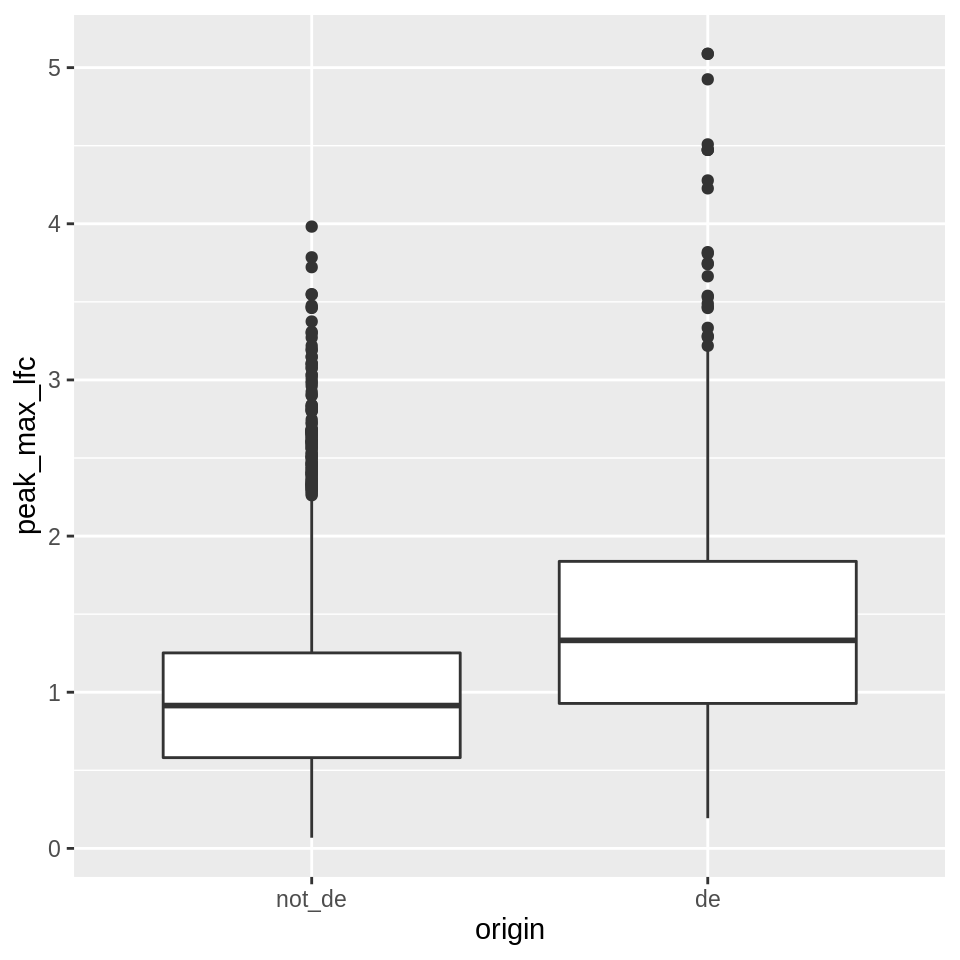
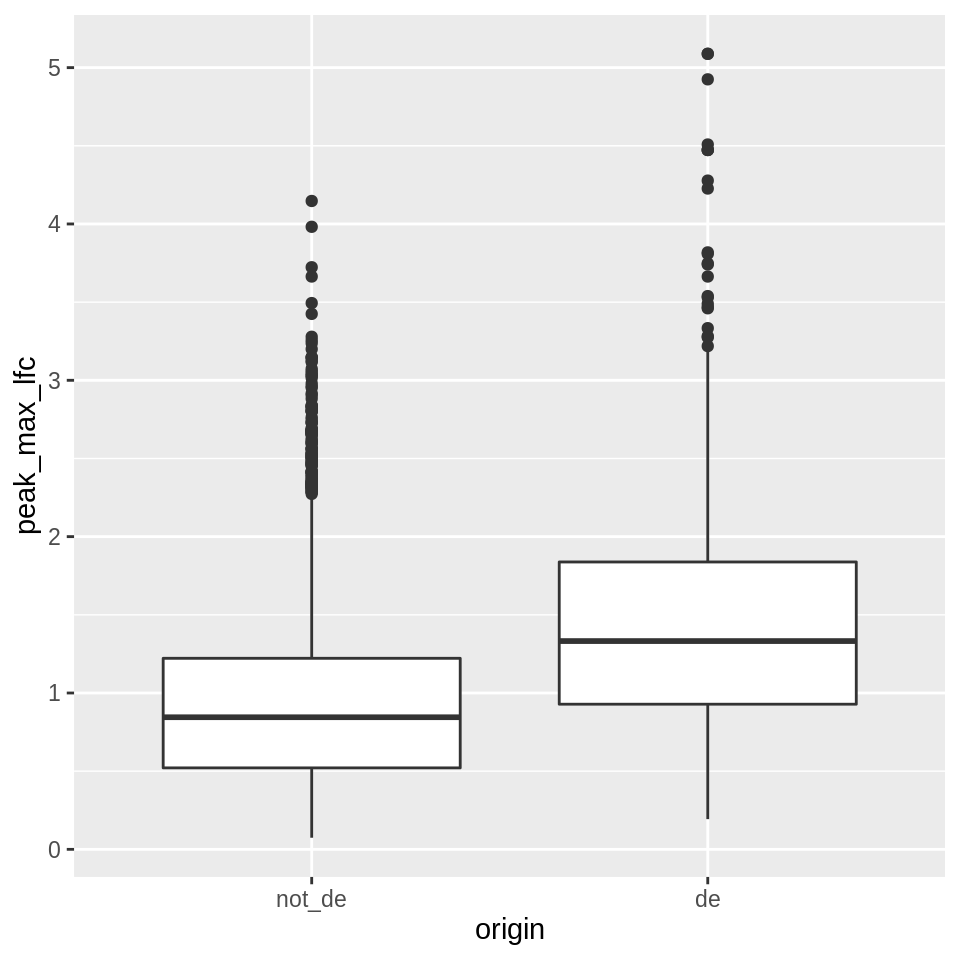
Built site for fluentGenomics: 0.0.5@83ba0e7

diff --git a/articles/fluentGenomics.html b/articles/fluentGenomics.html
@@ -31,7 +31,7 @@
       </button>
       <span class="navbar-brand">
         <a class="navbar-link" href="../index.html">fluentGenomics</a>
-        <span class="version label label-default" data-toggle="tooltip" data-placement="bottom" title="Released version">0.0.4</span>
+        <span class="version label label-default" data-toggle="tooltip" data-placement="bottom" title="Released version">0.0.5</span>
       </span>
     </div>
 
@@ -312,7 +312,7 @@ transcriptome can be created directly from a <em>Salmon</em> index and gtf.</p>
 <em>tximeta</em> to summarize the transcript-level data to the gene level using the
 methods of <span class="citation">Soneson, Love, and Robinson (<a href="#ref-Soneson2015">2015</a>)</span>.</p>
 <div class="sourceCode" id="cb23"><pre class="sourceCode r"><code class="sourceCode r"><a class="sourceLine" id="cb23-1" data-line-number="1">gse &lt;-<span class="st"> </span><span class="kw">summarizeToGene</span>(se)</a></code></pre></div>
-<pre><code>## loading existing TxDb created: 2020-01-23 00:48:23</code></pre>
+<pre><code>## loading existing TxDb created: 2020-01-23 01:38:22</code></pre>
 <pre><code>## Loading required package: GenomicFeatures</code></pre>
 <pre><code>## Loading required package: AnnotationDbi</code></pre>
 <pre><code>## 
@@ -495,20 +495,23 @@ select (and rename) the metadata columns we’re interested in:</p>
 <div class="sourceCode" id="cb57"><pre class="sourceCode r"><code class="sourceCode r"><a class="sourceLine" id="cb57-1" data-line-number="1">de_genes &lt;-<span class="st"> </span>de_genes <span class="op">%&gt;%</span></a>
 <a class="sourceLine" id="cb57-2" data-line-number="2"><span class="st">  </span><span class="kw"><a href="https://rdrr.io/pkg/plyranges/man/tidyverse-reexports.html">filter</a></span>(padj <span class="op">&lt;</span><span class="st"> </span><span class="fl">0.01</span>) <span class="op">%&gt;%</span></a>
 <a class="sourceLine" id="cb57-3" data-line-number="3"><span class="st">  </span><span class="kw"><a href="https://rdrr.io/pkg/plyranges/man/tidyverse-reexports.html">select</a></span>(gene_id, <span class="dt">de_log2FC =</span> log2FoldChange, <span class="dt">de_padj =</span> padj)</a></code></pre></div>
-<p>We now wish to extract genes for which we could <em>not</em> reject the null
-hypothesis (we select based on an unadjusted p-value larger than 0.1 for
-example). We must re-run <code>results</code> because we don’t want to use an
-<code>lfcThreshold</code> this time. For brevity we will label these genes as
-<code>other_genes</code> or later as “non-DE genes”, and we will use these for comparison
-with our <code>de_genes</code> set.</p>
+<p>We now wish to extract genes for which there is evidence that the LFC
+is <em>not</em> large. We perform this test by specifying an LFC threshold
+and an alternative hypothesis (<code>altHypothesis</code>) that the LFC is less
+than the threshold in absolute value. To visualize the result of this
+test, you can run <code>results</code> without <code>format="GRanges"</code>, and pass this
+object to <code>plotMA</code> as before. We label these genes as <code>other_genes</code>
+and later as “non-DE genes”, for comparison with our <code>de_genes</code> set.</p>
 <div class="sourceCode" id="cb58"><pre class="sourceCode r"><code class="sourceCode r"><a class="sourceLine" id="cb58-1" data-line-number="1">other_genes &lt;-<span class="st"> </span><span class="kw"><a href="https://rdrr.io/pkg/DESeq2/man/results.html">results</a></span>(dds,</a>
 <a class="sourceLine" id="cb58-2" data-line-number="2">                       <span class="dt">contrast=</span><span class="kw"><a href="https://rdrr.io/r/base/c.html">c</a></span>(<span class="st">"condition"</span>,<span class="st">"IFNg"</span>,<span class="st">"naive"</span>),</a>
-<a class="sourceLine" id="cb58-3" data-line-number="3">                       <span class="dt">format=</span><span class="st">"GRanges"</span>) <span class="op">%&gt;%</span></a>
-<a class="sourceLine" id="cb58-4" data-line-number="4"><span class="st">  </span><span class="kw"><a href="https://rdrr.io/pkg/plyranges/man/tidyverse-reexports.html">filter</a></span>(pvalue <span class="op">&gt;</span><span class="st"> </span><span class="fl">0.1</span>) <span class="op">%&gt;%</span></a>
-<a class="sourceLine" id="cb58-5" data-line-number="5"><span class="st">  </span><span class="kw"><a href="https://rdrr.io/pkg/plyranges/man/ranges-names.html">names_to_column</a></span>(<span class="st">"gene_id"</span>) <span class="op">%&gt;%</span></a>
-<a class="sourceLine" id="cb58-6" data-line-number="6"><span class="st">  </span>dplyr<span class="op">::</span><span class="kw"><a href="https://dplyr.tidyverse.org/reference/select.html">select</a></span>(gene_id,</a>
-<a class="sourceLine" id="cb58-7" data-line-number="7">                <span class="dt">de_log2FC =</span> log2FoldChange,</a>
-<a class="sourceLine" id="cb58-8" data-line-number="8">                <span class="dt">de_padj =</span> padj)</a></code></pre></div>
+<a class="sourceLine" id="cb58-3" data-line-number="3">                       <span class="dt">lfcThreshold=</span><span class="dv">1</span>,</a>
+<a class="sourceLine" id="cb58-4" data-line-number="4">                       <span class="dt">altHypothesis=</span><span class="st">"lessAbs"</span>,</a>
+<a class="sourceLine" id="cb58-5" data-line-number="5">                       <span class="dt">format=</span><span class="st">"GRanges"</span>) <span class="op">%&gt;%</span></a>
+<a class="sourceLine" id="cb58-6" data-line-number="6"><span class="st">  </span><span class="kw"><a href="https://rdrr.io/pkg/plyranges/man/tidyverse-reexports.html">filter</a></span>(padj <span class="op">&lt;</span><span class="st"> </span><span class="fl">0.01</span>) <span class="op">%&gt;%</span></a>
+<a class="sourceLine" id="cb58-7" data-line-number="7"><span class="st">  </span><span class="kw"><a href="https://rdrr.io/pkg/plyranges/man/ranges-names.html">names_to_column</a></span>(<span class="st">"gene_id"</span>) <span class="op">%&gt;%</span></a>
+<a class="sourceLine" id="cb58-8" data-line-number="8"><span class="st">  </span>dplyr<span class="op">::</span><span class="kw"><a href="https://dplyr.tidyverse.org/reference/select.html">select</a></span>(gene_id,</a>
+<a class="sourceLine" id="cb58-9" data-line-number="9">                <span class="dt">de_log2FC =</span> log2FoldChange,</a>
+<a class="sourceLine" id="cb58-10" data-line-number="10">                <span class="dt">de_padj =</span> padj)</a></code></pre></div>
 </div>
 <div id="atac-seq-peak-differential-abundance-analysis" class="section level2">
 <h2 class="hasAnchor">
@@ -622,30 +625,30 @@ samples of size equal to the number of DE-genes from the number of rows in
 <pre><code>## GRanges object with 749 ranges and 3 metadata columns:
 ##         seqnames              ranges strand |            gene_id  de_log2FC
 ##            &lt;Rle&gt;           &lt;IRanges&gt;  &lt;Rle&gt; |        &lt;character&gt;  &lt;numeric&gt;
-##     [1]    chr12     6867119-6870948      + | ENSG00000111669.14 -0.0739179
-##     [2]     chr1     3778558-3796504      - |  ENSG00000130764.9  0.0435148
-##     [3]    chr17   47807372-47821834      - | ENSG00000006025.11 -0.2879243
-##     [4]    chr12   93569814-93583487      + | ENSG00000120833.13 -1.0373145
-##     [5]     chr1 206798870-206842981      + | ENSG00000142224.15 -1.3226798
+##     [1]    chr10 119651370-119677819      + |  ENSG00000151929.9 -0.1996840
+##     [2]     chr6   53001279-53061802      - | ENSG00000112144.15 -0.1056051
+##     [3]     chr2 240479422-240569209      - | ENSG00000144504.15  0.0525135
+##     [4]    chr16   30704067-30745169      + |  ENSG00000282034.1 -0.1179364
+##     [5]     chr5   75356345-75512138      - | ENSG00000113163.16  0.5725681
 ##     ...      ...                 ...    ... .                ...        ...
-##   [745]    chr22   27748277-27801498      - |  ENSG00000169184.5  -0.603750
-##   [746]     chr7   24796539-24981634      - | ENSG00000070882.12   0.259832
-##   [747]     chr3 127629181-127672809      + | ENSG00000114631.10   0.173369
-##   [748]     chr4   55948871-56033363      + | ENSG00000174799.10  -0.124019
-##   [749]     chr7 144451941-144836395      - | ENSG00000196511.14   0.190932
-##           de_padj
-##         &lt;numeric&gt;
-##     [1]  0.634682
-##     [2]  0.807305
-##     [3]  0.604191
-##     [4]  0.245444
-##     [5]  0.322124
-##     ...       ...
-##   [745]  0.438261
-##   [746]  0.379907
-##   [747]  0.786466
-##   [748]  0.751884
-##   [749]  0.518780
+##   [745]    chr19     1905214-1926013      + |  ENSG00000227500.9  0.0213695
+##   [746]    chr14   93202894-93207094      - |  ENSG00000170270.4  0.1850065
+##   [747]    chr10 119167703-119178833      - |  ENSG00000165672.6 -0.1094671
+##   [748]     chr1 160932465-160949922      + |  ENSG00000198358.4 -0.0822279
+##   [749]    chr10     6144934-6254644      + | ENSG00000170525.20 -0.2260412
+##             de_padj
+##           &lt;numeric&gt;
+##     [1] 6.16840e-04
+##     [2] 3.21012e-12
+##     [3] 4.78348e-04
+##     [4] 3.96852e-05
+##     [5] 3.30430e-03
+##     ...         ...
+##   [745] 1.15319e-19
+##   [746] 4.32827e-06
+##   [747] 7.26962e-21
+##   [748] 1.54461e-03
+##   [749] 2.84650e-03
 ##   -------
 ##   seqinfo: 25 sequences (1 circular) from an unspecified genome; no seqlengths</code></pre>
 <p>We can repeat this many times to create many samples via <code>replicate</code>. By
@@ -674,19 +677,19 @@ object, this is given a missing value which we recode to a 0 using <code><a href
 <a class="sourceLine" id="cb68-9" data-line-number="9">  )</a>
 <a class="sourceLine" id="cb68-10" data-line-number="10">all_genes</a></code></pre></div>
 <pre><code>## GRanges object with 8239 ranges and 5 metadata columns:
-##          seqnames              ranges strand |            gene_id  de_log2FC
-##             &lt;Rle&gt;           &lt;IRanges&gt;  &lt;Rle&gt; |        &lt;character&gt;  &lt;numeric&gt;
-##      [1]     chr1 196651878-196747504      + | ENSG00000000971.15    4.98711
-##      [2]     chr6   46129993-46146699      + |  ENSG00000001561.6    1.92722
-##      [3]     chr4   17577192-17607972      + | ENSG00000002549.12    2.93373
-##      [4]     chr7 150800403-150805120      + |  ENSG00000002933.8    3.16722
-##      [5]     chr4   15778275-15853230      + | ENSG00000004468.12    5.40894
-##      ...      ...                 ...    ... .                ...        ...
-##   [8235]     chr3   72749277-72861914      - | ENSG00000144736.13 -0.3240580
-##   [8236]    chr17   29566052-29573157      + | ENSG00000167543.15  0.0582049
-##   [8237]     chr7 129225023-129430211      + | ENSG00000158467.16  0.2845564
-##   [8238]     chr2   24029340-24049575      - | ENSG00000163026.11 -0.1305761
-##   [8239]    chr16     1826941-1840207      + | ENSG00000180185.11  0.1739038
+##          seqnames              ranges strand |            gene_id de_log2FC
+##             &lt;Rle&gt;           &lt;IRanges&gt;  &lt;Rle&gt; |        &lt;character&gt; &lt;numeric&gt;
+##      [1]     chr1 196651878-196747504      + | ENSG00000000971.15   4.98711
+##      [2]     chr6   46129993-46146699      + |  ENSG00000001561.6   1.92722
+##      [3]     chr4   17577192-17607972      + | ENSG00000002549.12   2.93373
+##      [4]     chr7 150800403-150805120      + |  ENSG00000002933.8   3.16722
+##      [5]     chr4   15778275-15853230      + | ENSG00000004468.12   5.40894
+##      ...      ...                 ...    ... .                ...       ...
+##   [8235]    chr17   43527844-43579620      - | ENSG00000175832.12 -0.240918
+##   [8236]    chr17   18260534-18266552      + | ENSG00000177427.12 -0.166059
+##   [8237]    chr20   63895182-63936031      + | ENSG00000101152.10  0.250539
+##   [8238]     chr1   39081316-39487177      + | ENSG00000127603.25 -0.385054
+##   [8239]     chr8   41577187-41625001      + | ENSG00000158669.11  0.155922
 ##              de_padj  resample   origin
 ##            &lt;numeric&gt; &lt;integer&gt; &lt;factor&gt;
 ##      [1] 1.37057e-13         0       de
@@ -695,11 +698,11 @@ object, this is given a missing value which we recode to a 0 using <code><a href
 ##      [4] 1.07360e-08         0       de
 ##      [5] 4.82905e-18         0       de
 ##      ...         ...       ...      ...
-##   [8235]    0.531385        10   not_de
-##   [8236]    0.681057        10   not_de
-##   [8237]    0.378275        10   not_de
-##   [8238]    0.601621        10   not_de
-##   [8239]    0.568644        10   not_de
+##   [8235] 9.91611e-03        10   not_de
+##   [8236] 9.12051e-05        10   not_de
+##   [8237] 1.74085e-09        10   not_de
+##   [8238] 2.65539e-03        10   not_de
+##   [8239] 2.96375e-17        10   not_de
 ##   -------
 ##   seqinfo: 25 sequences (1 circular) from an unspecified genome; no seqlengths</code></pre>
 </div>
@@ -743,20 +746,20 @@ overlaps, the DA peak columns will have <code>NA</code>’s.</p>
 <div class="sourceCode" id="cb72"><pre class="sourceCode r"><code class="sourceCode r"><a class="sourceLine" id="cb72-1" data-line-number="1">genes_olap_peaks &lt;-<span class="st"> </span>all_genes <span class="op">%&gt;%</span></a>
 <a class="sourceLine" id="cb72-2" data-line-number="2"><span class="st">  </span><span class="kw"><a href="https://rdrr.io/pkg/plyranges/man/overlap-joins.html">join_overlap_left</a></span>(da_peaks)</a>
 <a class="sourceLine" id="cb72-3" data-line-number="3">genes_olap_peaks</a></code></pre></div>
-<pre><code>## GRanges object with 27591 ranges and 8 metadata columns:
-##           seqnames              ranges strand |            gene_id  de_log2FC
-##              &lt;Rle&gt;           &lt;IRanges&gt;  &lt;Rle&gt; |        &lt;character&gt;  &lt;numeric&gt;
-##       [1]     chr1 196641878-196661877      + | ENSG00000000971.15    4.98711
-##       [2]     chr6   46119993-46139992      + |  ENSG00000001561.6    1.92722
-##       [3]     chr4   17567192-17587191      + | ENSG00000002549.12    2.93373
-##       [4]     chr4   17567192-17587191      + | ENSG00000002549.12    2.93373
-##       [5]     chr4   17567192-17587191      + | ENSG00000002549.12    2.93373
-##       ...      ...                 ...    ... .                ...        ...
-##   [27587]    chr17   29556052-29576051      + | ENSG00000167543.15  0.0582049
-##   [27588]     chr7 129215023-129235022      + | ENSG00000158467.16  0.2845564
-##   [27589]     chr2   24039575-24059574      - | ENSG00000163026.11 -0.1305761
-##   [27590]    chr16     1816941-1836940      + | ENSG00000180185.11  0.1739038
-##   [27591]    chr16     1816941-1836940      + | ENSG00000180185.11  0.1739038
+<pre><code>## GRanges object with 27766 ranges and 8 metadata columns:
+##           seqnames              ranges strand |            gene_id de_log2FC
+##              &lt;Rle&gt;           &lt;IRanges&gt;  &lt;Rle&gt; |        &lt;character&gt; &lt;numeric&gt;
+##       [1]     chr1 196641878-196661877      + | ENSG00000000971.15   4.98711
+##       [2]     chr6   46119993-46139992      + |  ENSG00000001561.6   1.92722
+##       [3]     chr4   17567192-17587191      + | ENSG00000002549.12   2.93373
+##       [4]     chr4   17567192-17587191      + | ENSG00000002549.12   2.93373
+##       [5]     chr4   17567192-17587191      + | ENSG00000002549.12   2.93373
+##       ...      ...                 ...    ... .                ...       ...
+##   [27762]     chr1   39071316-39091315      + | ENSG00000127603.25 -0.385054
+##   [27763]     chr1   39071316-39091315      + | ENSG00000127603.25 -0.385054
+##   [27764]     chr8   41567187-41587186      + | ENSG00000158669.11  0.155922
+##   [27765]     chr8   41567187-41587186      + | ENSG00000158669.11  0.155922
+##   [27766]     chr8   41567187-41587186      + | ENSG00000158669.11  0.155922
 ##               de_padj  resample   origin          peak_id da_log2FC     da_padj
 ##             &lt;numeric&gt; &lt;integer&gt; &lt;factor&gt;      &lt;character&gt; &lt;numeric&gt;   &lt;numeric&gt;
 ##       [1] 1.37057e-13         0       de  ATAC_peak_21236 -0.546582 1.15274e-04
@@ -765,11 +768,11 @@ overlaps, the DA peak columns will have <code>NA</code>’s.</p>
 ##       [4] 2.01310e-11         0       de ATAC_peak_193579 -0.281615 7.99889e-05
 ##       [5] 2.01310e-11         0       de ATAC_peak_193580  0.673705 7.60043e-15
 ##       ...         ...       ...      ...              ...       ...         ...
-##   [27587]    0.681057        10   not_de ATAC_peak_109304  0.211751 1.11290e-03
-##   [27588]    0.378275        10   not_de ATAC_peak_255700  0.177364 5.25385e-09
-##   [27589]    0.601621        10   not_de ATAC_peak_133247 -0.266266 1.01550e-07
-##   [27590]    0.568644        10   not_de  ATAC_peak_97065 -0.405271 1.28055e-05
-##   [27591]    0.568644        10   not_de  ATAC_peak_97067  0.289105 5.87370e-07
+##   [27762] 2.65539e-03        10   not_de   ATAC_peak_5357 -1.058236 3.69052e-16
+##   [27763] 2.65539e-03        10   not_de   ATAC_peak_5358 -1.314112 6.44280e-26
+##   [27764] 2.96375e-17        10   not_de ATAC_peak_263396 -0.904080 8.19577e-13
+##   [27765] 2.96375e-17        10   not_de ATAC_peak_263397  0.364738 2.08835e-08
+##   [27766] 2.96375e-17        10   not_de ATAC_peak_263399  0.317387 1.20088e-08
 ##   -------
 ##   seqinfo: 25 sequences (1 circular) from an unspecified genome; no seqlengths</code></pre>
 <p>Now we can ask, how many DA peaks are near DE genes relative to “other” non-DE
@@ -823,7 +826,7 @@ thresholds of 1 or 2 as follows:</p>
 <pre><code>## DataFrame with 2 rows and 4 columns
 ##     origin peak_count lfc1_peak_count lfc2_peak_count
 ##   &lt;factor&gt;  &lt;numeric&gt;       &lt;numeric&gt;       &lt;numeric&gt;
-## 1   not_de     2362.3           443.8            32.3
+## 1   not_de     2391.8           369.5            32.5
 ## 2   de         3416.0          1097.0           234.0</code></pre>
 <p>Here we see that DE genes tend to have more DA peaks near them, and that the
 number of DA peaks decreases as we increase the DA LFC threshold (as expected).
@@ -844,9 +847,9 @@ enrichment:</p>
 <pre><code>## # A tibble: 3 x 4
 ##   name            not_de    de enrichment
 ##   &lt;chr&gt;            &lt;dbl&gt; &lt;dbl&gt;      &lt;dbl&gt;
-## 1 peak_count      2362.   3416       1.45
-## 2 lfc1_peak_count  444.   1097       2.47
-## 3 lfc2_peak_count   32.3   234       7.24</code></pre>
+## 1 peak_count      2392.   3416       1.43
+## 2 lfc1_peak_count  370.   1097       2.97
+## 3 lfc2_peak_count   32.5   234       7.2</code></pre>
 <p>The above table shows that relative enrichment increases for a larger LFC
 threshold.</p>
 <p>Due to the one-to-many mappings of genes to peaks, it is unknown if we have the
@@ -873,7 +876,7 @@ than zero peaks (again averaging over the number of resamples).</p>
 <pre><code>## DataFrame with 2 rows and 5 columns
 ##     origin lfc1_gene_count lfc1_peak_count lfc2_gene_count lfc2_peak_count
 ##   &lt;factor&gt;       &lt;numeric&gt;       &lt;numeric&gt;       &lt;numeric&gt;       &lt;numeric&gt;
-## 1   not_de           301.4           443.8            30.4            32.3
+## 1   not_de           271.2           369.5            30.3            32.5
 ## 2   de               515.0          1097.0           151.0           234.0</code></pre>
 <p>To do this for many thresholds is cumbersome and would create a lot of
 duplicate code. Instead we create a single function called
@@ -914,11 +917,11 @@ threshold values.</p>
 ##      [4]     chr7 150790403-150810402      + |  ENSG00000002933.8       de
 ##      [5]     chr4   15768275-15788274      + | ENSG00000004468.12       de
 ##      ...      ...                 ...    ... .                ...      ...
-##   [8235]     chr3   72851914-72871913      - | ENSG00000144736.13   not_de
-##   [8236]    chr17   29556052-29576051      + | ENSG00000167543.15   not_de
-##   [8237]     chr7 129215023-129235022      + | ENSG00000158467.16   not_de
-##   [8238]     chr2   24039575-24059574      - | ENSG00000163026.11   not_de
-##   [8239]    chr16     1816941-1836940      + | ENSG00000180185.11   not_de
+##   [8235]    chr17   43569620-43589619      - | ENSG00000175832.12   not_de
+##   [8236]    chr17   18250534-18270533      + | ENSG00000177427.12   not_de
+##   [8237]    chr20   63885182-63905181      + | ENSG00000101152.10   not_de
+##   [8238]     chr1   39071316-39091315      + | ENSG00000127603.25   not_de
+##   [8239]     chr8   41567187-41587186      + | ENSG00000158669.11   not_de
 ##           resample         value                         threshold
 ##          &lt;integer&gt; &lt;IntegerList&gt;                     &lt;NumericList&gt;
 ##      [1]         0     1,1,1,... 0.0658243,0.1184840,0.1711436,...
@@ -927,11 +930,11 @@ threshold values.</p>
 ##      [4]         0     4,4,4,... 0.0658243,0.1184840,0.1711436,...
 ##      [5]         0  11,11,11,... 0.0658243,0.1184840,0.1711436,...
 ##      ...       ...           ...                               ...
-##   [8235]        10     0,0,0,... 0.0658243,0.1184840,0.1711436,...
-##   [8236]        10     7,7,7,... 0.0658243,0.1184840,0.1711436,...
-##   [8237]        10     1,1,1,... 0.0658243,0.1184840,0.1711436,...
-##   [8238]        10     1,1,1,... 0.0658243,0.1184840,0.1711436,...
-##   [8239]        10     2,2,2,... 0.0658243,0.1184840,0.1711436,...
+##   [8235]        10     1,1,1,... 0.0658243,0.1184840,0.1711436,...
+##   [8236]        10     3,3,2,... 0.0658243,0.1184840,0.1711436,...
+##   [8237]        10     5,5,5,... 0.0658243,0.1184840,0.1711436,...
+##   [8238]        10     3,3,3,... 0.0658243,0.1184840,0.1711436,...
+##   [8239]        10     3,3,3,... 0.0658243,0.1184840,0.1711436,...
 ##   -------
 ##   seqinfo: 25 sequences (1 circular) from an unspecified genome; no seqlengths</code></pre>
 <p>Now we can expand these list-columns into a long <em>GRanges</em> object using the
@@ -950,11 +953,11 @@ before:</p>
 <pre><code>## DataFrame with 200 rows and 4 columns
 ##       origin threshold gene_count peak_count
 ##     &lt;factor&gt; &lt;numeric&gt;  &lt;numeric&gt;  &lt;numeric&gt;
-## 1     not_de 0.0658243      696.0     2362.2
-## 2     not_de 0.1184840      688.7     2309.9
-## 3     not_de 0.1711436      678.6     2197.8
-## 4     not_de 0.2238033      666.4     2045.6
-## 5     not_de 0.2764629      649.6     1878.0
+## 1     not_de 0.0658243      708.0     2391.4
+## 2     not_de 0.1184840      698.8     2320.6
+## 3     not_de 0.1711436      686.2     2178.6
+## 4     not_de 0.2238033      672.4     1989.4
+## 5     not_de 0.2764629      650.4     1785.8
 ## ...      ...       ...        ...        ...
 ## 196       de   5.06849          2          2
 ## 197       de   5.12115          0          0
@@ -1089,7 +1092,7 @@ installed using the <code>BiocManager</code> package by running:</p>
 ## [13] IRanges_2.21.3              S4Vectors_0.25.11          
 ## [15] BiocGenerics_0.33.0         readr_1.3.1                
 ## [17] dplyr_0.8.3                 tximeta_1.5.17             
-## [19] fluentGenomics_0.0.4       
+## [19] fluentGenomics_0.0.5       
 ## 
 ## loaded via a namespace (and not attached):
 ##  [1] ProtGenerics_1.19.3           bitops_1.0-6                 

diff --git a/reference/peaks.html b/reference/peaks.html
@@ -71,7 +71,7 @@ this object was generated can be found in the vignette." />
       </button>
       <span class="navbar-brand">
         <a class="navbar-link" href="../index.html">fluentGenomics</a>
-        <span class="version label label-default" data-toggle="tooltip" data-placement="bottom" title="Released version">0.0.4</span>
+        <span class="version label label-default" data-toggle="tooltip" data-placement="bottom" title="Released version">0.0.5</span>
       </span>
     </div>
 

diff --git a/articles/index.html b/articles/index.html
@@ -67,7 +67,7 @@
       </button>
       <span class="navbar-brand">
         <a class="navbar-link" href="../index.html">fluentGenomics</a>
-        <span class="version label label-default" data-toggle="tooltip" data-placement="bottom" title="Released version">0.0.4</span>
+        <span class="version label label-default" data-toggle="tooltip" data-placement="bottom" title="Released version">0.0.5</span>
       </span>
     </div>
 

diff --git a/reference/cache-se.html b/reference/cache-se.html
@@ -69,7 +69,7 @@
       </button>
       <span class="navbar-brand">
         <a class="navbar-link" href="../index.html">fluentGenomics</a>
-        <span class="version label label-default" data-toggle="tooltip" data-placement="bottom" title="Released version">0.0.4</span>
+        <span class="version label label-default" data-toggle="tooltip" data-placement="bottom" title="Released version">0.0.5</span>
       </span>
     </div>
 

diff --git a/reference/index.html b/reference/index.html
@@ -67,7 +67,7 @@
       </button>
       <span class="navbar-brand">
         <a class="navbar-link" href="../index.html">fluentGenomics</a>
-        <span class="version label label-default" data-toggle="tooltip" data-placement="bottom" title="Released version">0.0.4</span>
+        <span class="version label label-default" data-toggle="tooltip" data-placement="bottom" title="Released version">0.0.5</span>
       </span>
     </div>
 

diff --git a/404.html b/404.html
@@ -67,7 +67,7 @@
       </button>
       <span class="navbar-brand">
         <a class="navbar-link" href="index.html">fluentGenomics</a>
-        <span class="version label label-default" data-toggle="tooltip" data-placement="bottom" title="Released version">0.0.4</span>
+        <span class="version label label-default" data-toggle="tooltip" data-placement="bottom" title="Released version">0.0.5</span>
       </span>
     </div>
 

diff --git a/LICENSE-text.html b/LICENSE-text.html
@@ -67,7 +67,7 @@
       </button>
       <span class="navbar-brand">
         <a class="navbar-link" href="index.html">fluentGenomics</a>
-        <span class="version label label-default" data-toggle="tooltip" data-placement="bottom" title="Released version">0.0.4</span>
+        <span class="version label label-default" data-toggle="tooltip" data-placement="bottom" title="Released version">0.0.5</span>
       </span>
     </div>
 

diff --git a/LICENSE.html b/LICENSE.html
@@ -67,7 +67,7 @@
       </button>
       <span class="navbar-brand">
         <a class="navbar-link" href="index.html">fluentGenomics</a>
-        <span class="version label label-default" data-toggle="tooltip" data-placement="bottom" title="Released version">0.0.4</span>
+        <span class="version label label-default" data-toggle="tooltip" data-placement="bottom" title="Released version">0.0.5</span>
       </span>
     </div>
 

diff --git a/authors.html b/authors.html
@@ -67,7 +67,7 @@
       </button>
       <span class="navbar-brand">
         <a class="navbar-link" href="index.html">fluentGenomics</a>
-        <span class="version label label-default" data-toggle="tooltip" data-placement="bottom" title="Released version">0.0.4</span>
+        <span class="version label label-default" data-toggle="tooltip" data-placement="bottom" title="Released version">0.0.5</span>
       </span>
     </div>
 

diff --git a/index.html b/index.html
@@ -36,7 +36,7 @@
       </button>
       <span class="navbar-brand">
         <a class="navbar-link" href="index.html">fluentGenomics</a>
-        <span class="version label label-default" data-toggle="tooltip" data-placement="bottom" title="Released version">0.0.4</span>
+        <span class="version label label-default" data-toggle="tooltip" data-placement="bottom" title="Released version">0.0.5</span>
       </span>
     </div>
 
